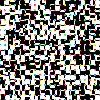
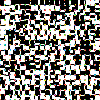
Updated canada.pymy1.png .

diff --git a/canada.py b/canada.py
@@ -23,7 +23,7 @@ def bon(col):
 
 
 inp = misc.imread('rompecabezas.png')
-outp=[[inp[i*10+5,j*10+5] for j in range(100)] for i in range(100)]
+outp=[[inp[i*10+3,j*10+3] for j in range(100)] for i in range(100)]
 outp=np.asarray(outp)
 img = Image.fromarray(outp, 'RGB')
 img.save('my.png')
